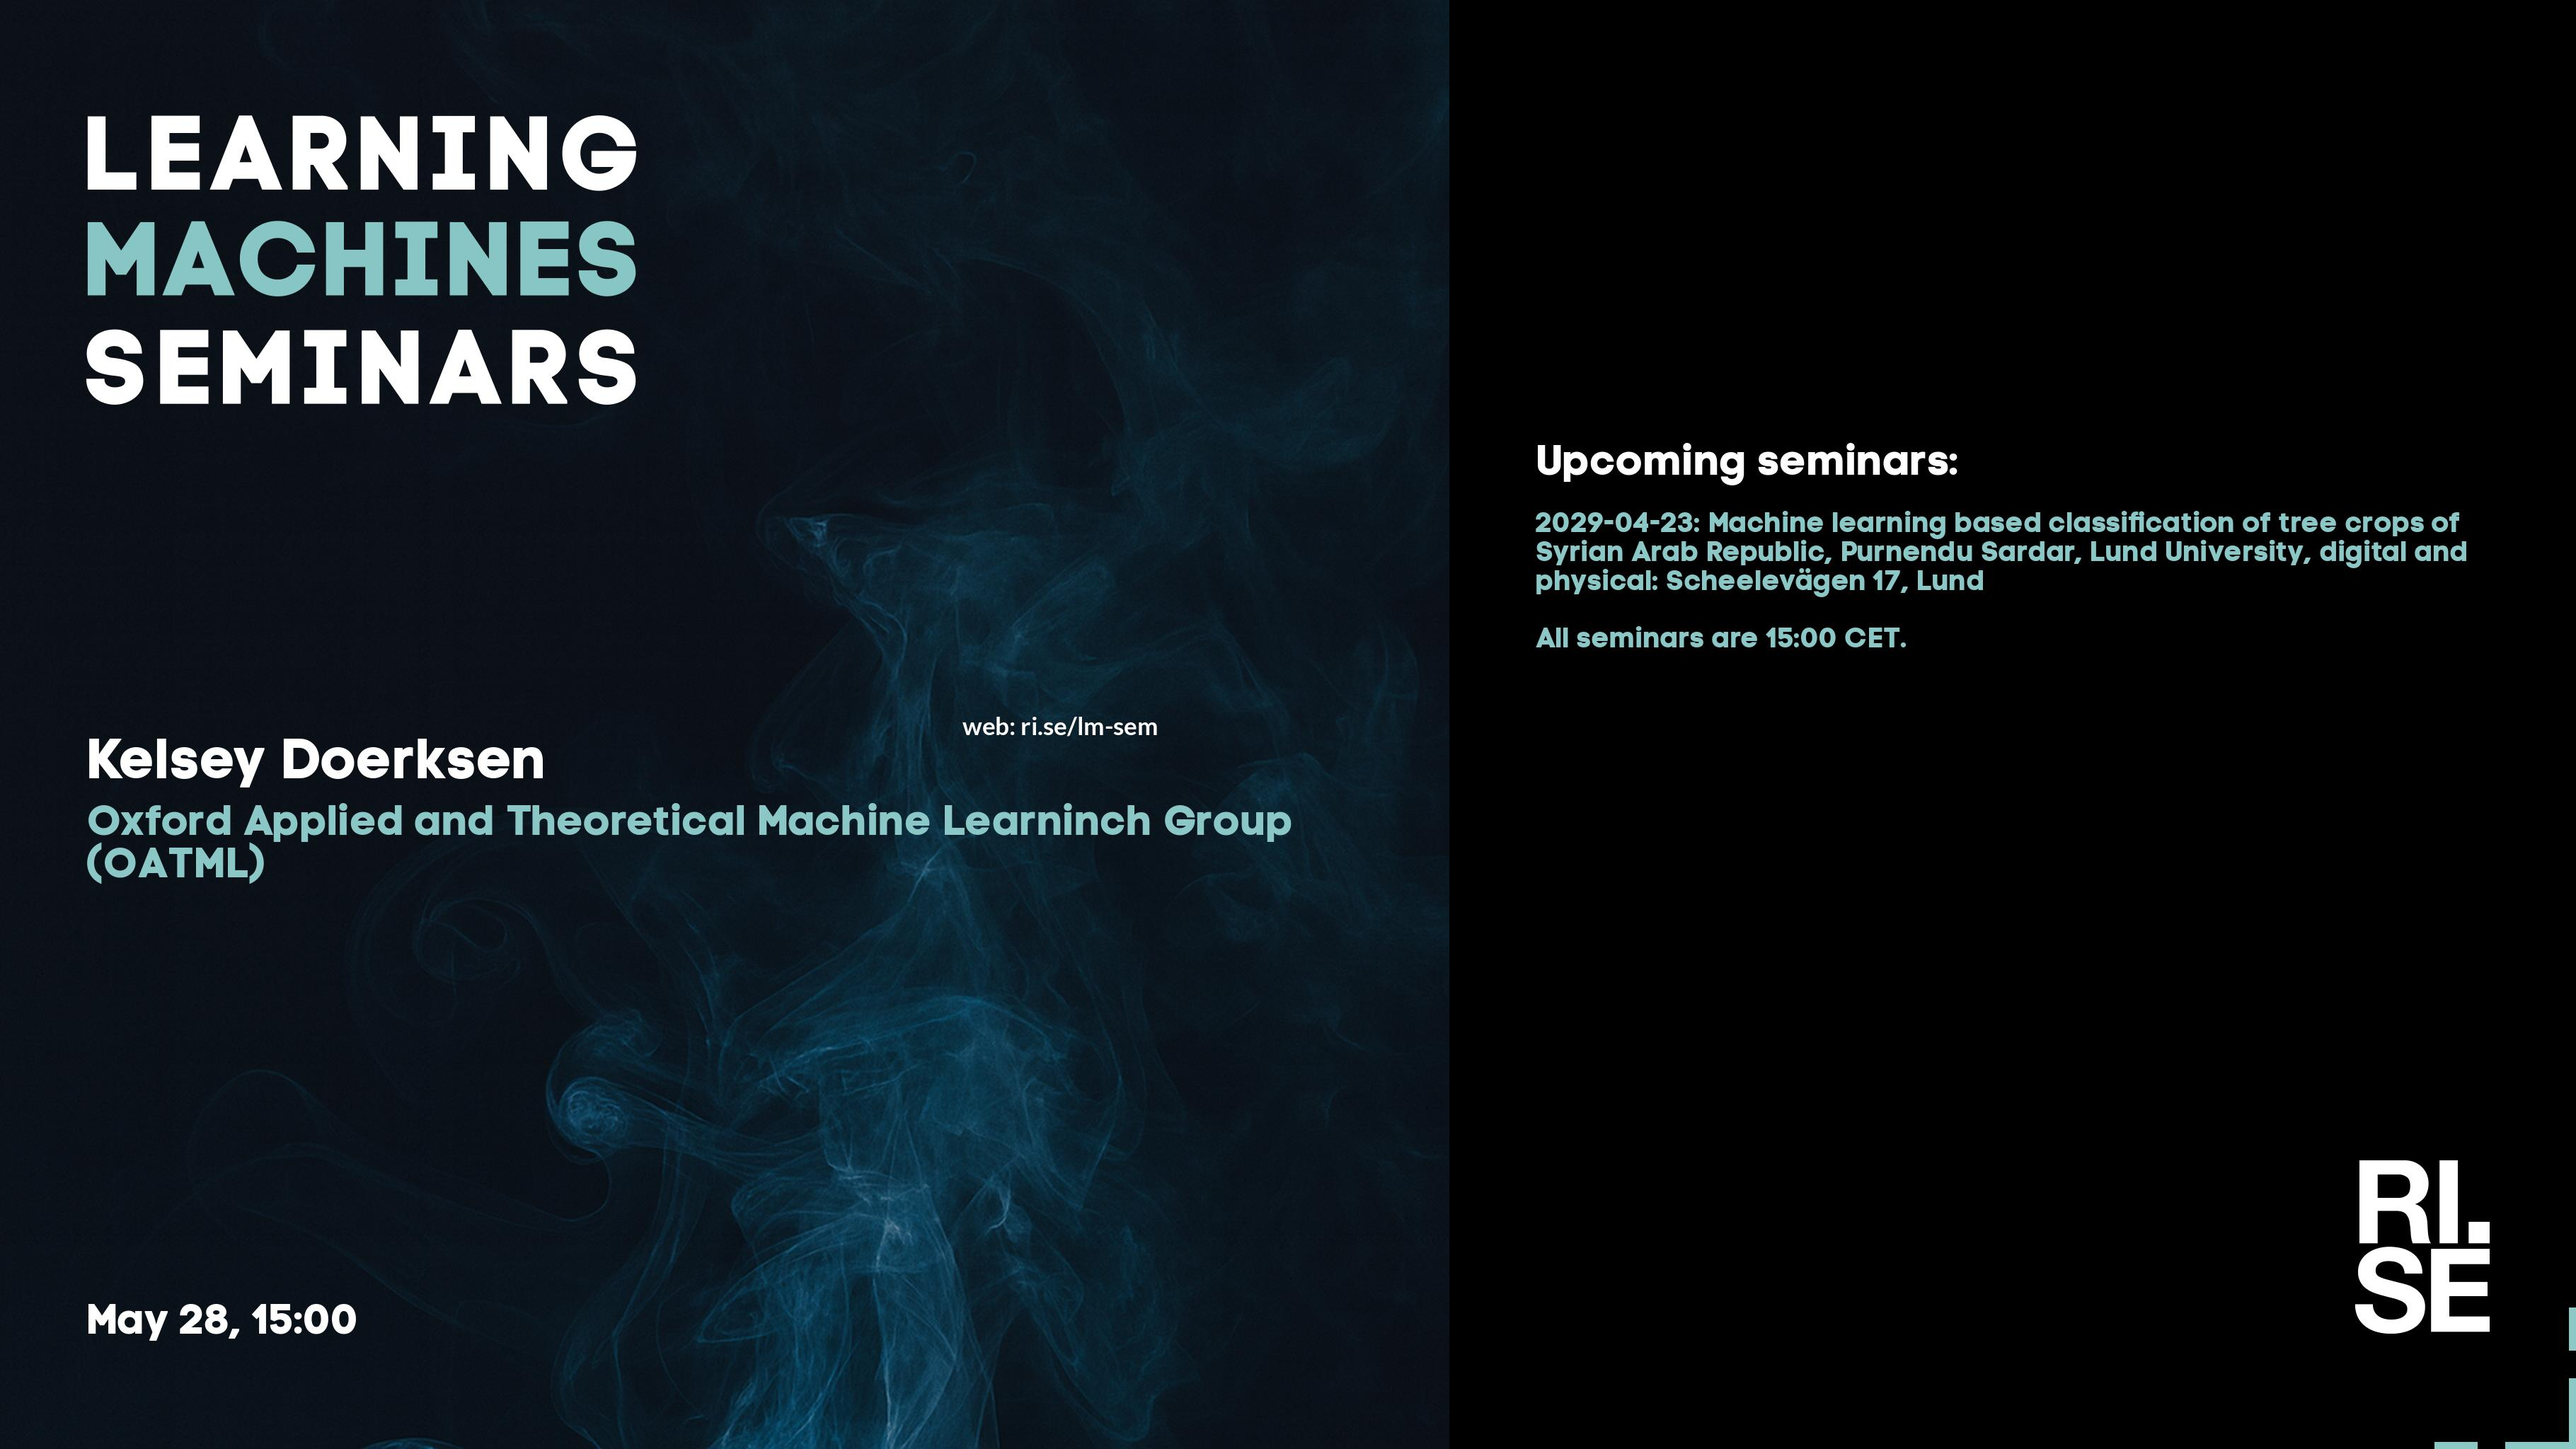
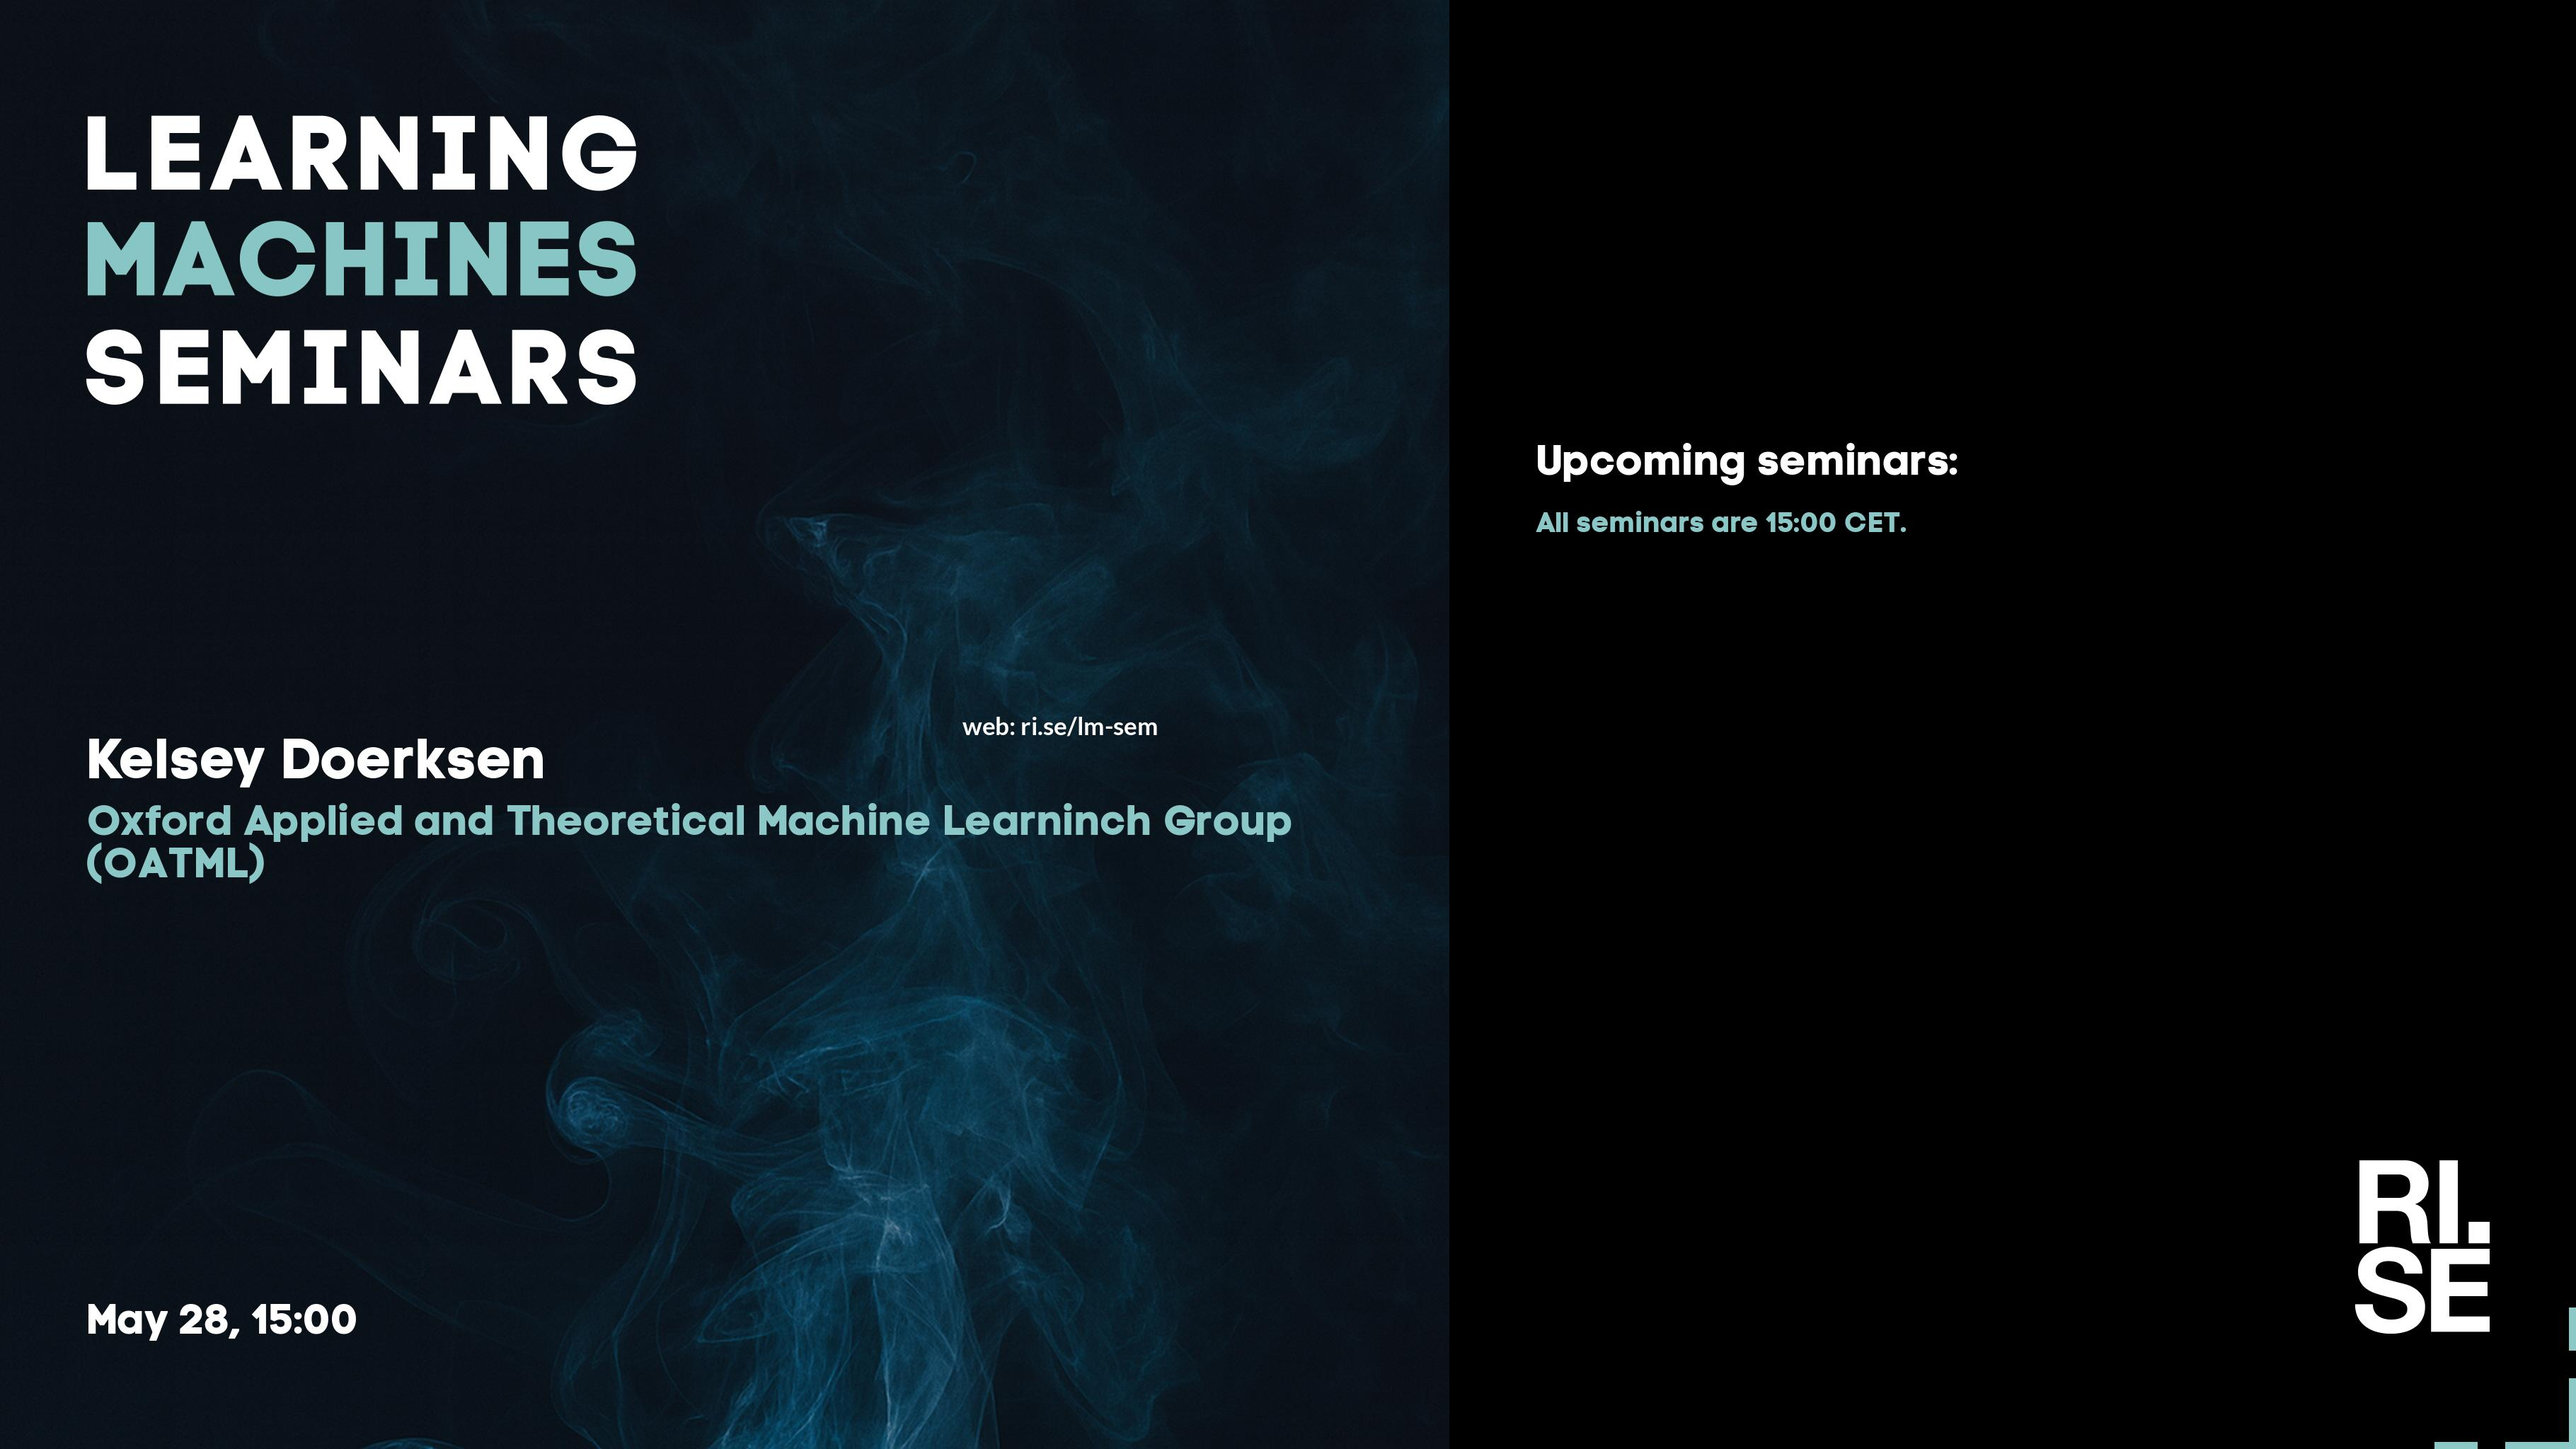
Updated plan on web site.

Changed region(s): [[0.5898, 0.3438, 0.9624, 0.4688]]

diff --git a/lm/2026.md b/lm/2026.md
@@ -21,8 +21,8 @@ table {border-collapse: collapse;}
 | <span style="color:red"> 2026-05-14 </span> | <span style="color:red"> Ascension day, affil </span> | <span style="color:red">  </span> | <span style="color:red">  ---  ---  </span> | <span style="color:red">  </span> | <span style="color:red">  </span> | <span style="color:red"> CANCELLED </span> |
 |  2026-05-28  |  [Kelsey Doerksen, Oxford Applied and Theoretical Machine Learninch Group (OATML)](2026-05-28.md)  |    |  [social media bg ](2026-05-28-social-media-bg-kelsey-doerksen.jpg) --- [social media photo ](2026-05-28-social-media-photo-kelsey-doerksen.jpg) --- [social media 169 ](2026-05-28-social-media-169-kelsey-doerksen.jpg)  |  [meeting backdrop ](2026-05-28-meeting-backdrop-kelsey-doerksen.jpg)  |  [youtube thumbnail ](2026-05-28-youtube-thumbnail-kelsey-doerksen.jpg)  |  S~~TABP~~  |
 | <span style="color:purple"> 2026-06-11 </span> | <span style="color:purple"> *Up for grabs!!!* </span> | <span style="color:purple">  </span> | <span style="color:purple">  ---  ---  </span> | <span style="color:purple">  </span> | <span style="color:purple">  </span> | <span style="color:purple"> ~~STABP~~ </span> |
-| <span style="color:purple"> 2026-06-24 </span> | <span style="color:purple"> *Up for grabs!!!* </span> | <span style="color:purple">  </span> | <span style="color:purple">  ---  ---  </span> | <span style="color:purple">  </span> | <span style="color:purple">  </span> | <span style="color:purple"> ~~STABP~~ </span> |
-|  2029-04-23  |  [Purnendu Sardar, Lund University](2029-04-23.md)  |    |  [social media bg ](2029-04-23-social-media-bg-purnendu-sardar.jpg) --- [social media photo ](2029-04-23-social-media-photo-purnendu-sardar.jpg) --- [social media 169 ](2029-04-23-social-media-169-purnendu-sardar.jpg)  |  [meeting backdrop ](2029-04-23-meeting-backdrop-purnendu-sardar.jpg)  |  [youtube thumbnail ](2029-04-23-youtube-thumbnail-purnendu-sardar.jpg)  |  STAB~~P~~  |
+| <span style="color:red"> 2026-06-18 </span> | <span style="color:red"> PAUSE </span> | <span style="color:red">  </span> | <span style="color:red">  ---  ---  </span> | <span style="color:red">  </span> | <span style="color:red">  </span> | <span style="color:red"> CANCELLED </span> |
+| <span style="color:purple"> 2026-06-25 </span> | <span style="color:purple"> *Up for grabs!!!* </span> | <span style="color:purple">  </span> | <span style="color:purple">  ---  ---  </span> | <span style="color:purple">  </span> | <span style="color:purple">  </span> | <span style="color:purple"> ~~STABP~~ </span> |
 
 ## History 
 

diff --git a/lm/index.md b/lm/index.md
@@ -21,8 +21,8 @@ table {border-collapse: collapse;}
 | <span style="color:red"> 2026-05-14 </span> | <span style="color:red"> Ascension day, affil </span> | <span style="color:red">  </span> | <span style="color:red">  ---  ---  </span> | <span style="color:red">  </span> | <span style="color:red">  </span> | <span style="color:red"> CANCELLED </span> |
 |  2026-05-28  |  [Kelsey Doerksen, Oxford Applied and Theoretical Machine Learninch Group (OATML)](2026-05-28.md)  |    |  [social media bg ](2026-05-28-social-media-bg-kelsey-doerksen.jpg) --- [social media photo ](2026-05-28-social-media-photo-kelsey-doerksen.jpg) --- [social media 169 ](2026-05-28-social-media-169-kelsey-doerksen.jpg)  |  [meeting backdrop ](2026-05-28-meeting-backdrop-kelsey-doerksen.jpg)  |  [youtube thumbnail ](2026-05-28-youtube-thumbnail-kelsey-doerksen.jpg)  |  S~~TABP~~  |
 | <span style="color:purple"> 2026-06-11 </span> | <span style="color:purple"> *Up for grabs!!!* </span> | <span style="color:purple">  </span> | <span style="color:purple">  ---  ---  </span> | <span style="color:purple">  </span> | <span style="color:purple">  </span> | <span style="color:purple"> ~~STABP~~ </span> |
-| <span style="color:purple"> 2026-06-24 </span> | <span style="color:purple"> *Up for grabs!!!* </span> | <span style="color:purple">  </span> | <span style="color:purple">  ---  ---  </span> | <span style="color:purple">  </span> | <span style="color:purple">  </span> | <span style="color:purple"> ~~STABP~~ </span> |
-|  2029-04-23  |  [Purnendu Sardar, Lund University](2029-04-23.md)  |    |  [social media bg ](2029-04-23-social-media-bg-purnendu-sardar.jpg) --- [social media photo ](2029-04-23-social-media-photo-purnendu-sardar.jpg) --- [social media 169 ](2029-04-23-social-media-169-purnendu-sardar.jpg)  |  [meeting backdrop ](2029-04-23-meeting-backdrop-purnendu-sardar.jpg)  |  [youtube thumbnail ](2029-04-23-youtube-thumbnail-purnendu-sardar.jpg)  |  STAB~~P~~  |
+| <span style="color:red"> 2026-06-18 </span> | <span style="color:red"> PAUSE </span> | <span style="color:red">  </span> | <span style="color:red">  ---  ---  </span> | <span style="color:red">  </span> | <span style="color:red">  </span> | <span style="color:red"> CANCELLED </span> |
+| <span style="color:purple"> 2026-06-25 </span> | <span style="color:purple"> *Up for grabs!!!* </span> | <span style="color:purple">  </span> | <span style="color:purple">  ---  ---  </span> | <span style="color:purple">  </span> | <span style="color:purple">  </span> | <span style="color:purple"> ~~STABP~~ </span> |
 
 ## History 
 

diff --git a/lm/2026-05-28.md b/lm/2026-05-28.md
@@ -22,7 +22,6 @@ Welcome to this week's Learning Machines seminar.
 
 **Upcoming seminars:**
 
-* 2029-04-23: *Machine learning based classification of tree crops of Syrian Arab Republic*, Purnendu Sardar, Lund University, **digital and physical: Scheelevägen 17, Lund**
 * All seminars are 15:00 CET.
 
 More information and coming seminars: [https://ri.se/lm-sem](https://ri.se/lm-sem)
